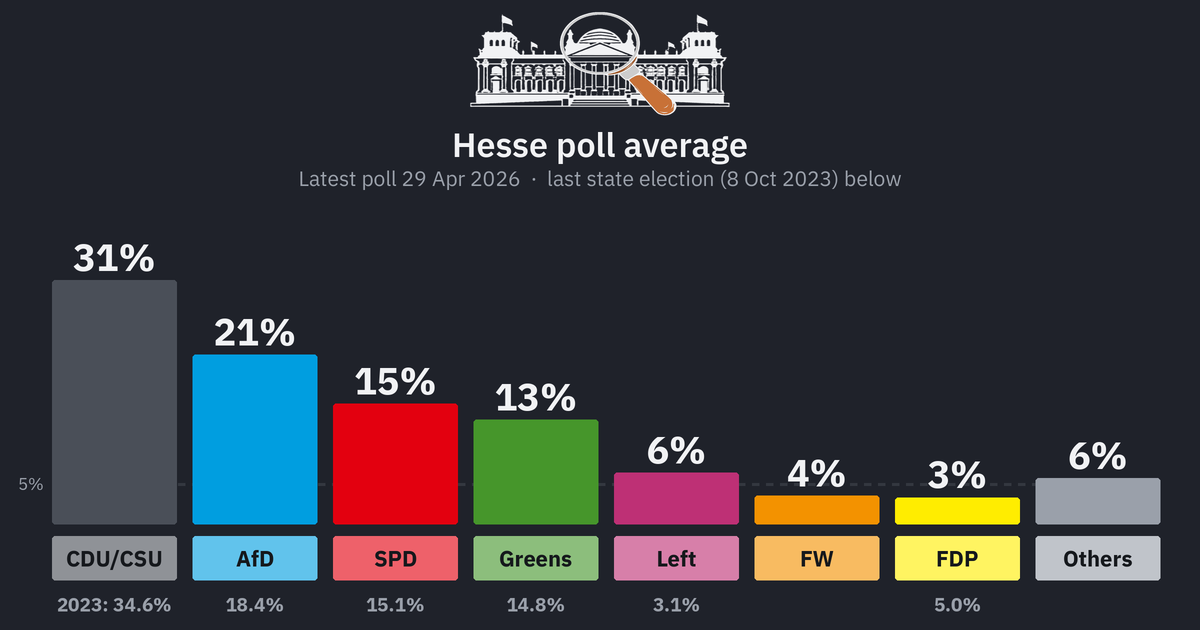
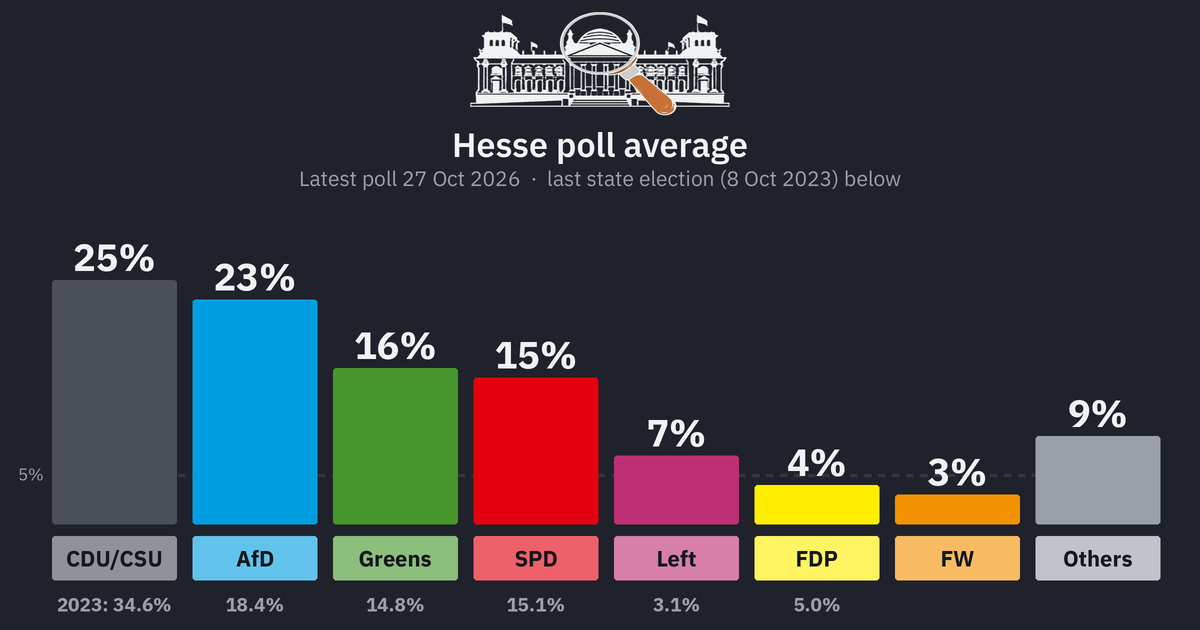
Update embed image

diff --git a/state/HE/index.html b/state/HE/index.html
@@ -15,8 +15,8 @@
 <meta property="og:title" content="KanzlerCheck: Hesse state polls">
 <meta property="og:description" content="German federal election polling average, Bundestag seat projection and government approval. Source: dawum.de">
 <meta property="og:url" content="https://kanzlercheck.github.io/state/HE/">
-<meta property="og:image" content="https://kanzlercheck.github.io/img/og/state-HE.png?v=20260429">
-<meta property="og:image:secure_url" content="https://kanzlercheck.github.io/img/og/state-HE.png?v=20260429">
+<meta property="og:image" content="https://kanzlercheck.github.io/img/og/state-HE.png?v=20261027">
+<meta property="og:image:secure_url" content="https://kanzlercheck.github.io/img/og/state-HE.png?v=20261027">
 <meta property="og:image:type" content="image/png">
 <meta property="og:image:width" content="1200">
 <meta property="og:image:height" content="630">
@@ -24,7 +24,7 @@
 <meta name="twitter:card" content="summary_large_image">
 <meta name="twitter:title" content="KanzlerCheck: Hesse state polls">
 <meta name="twitter:description" content="German federal election polling average, Bundestag seat projection and government approval. Source: dawum.de">
-<meta name="twitter:image" content="https://kanzlercheck.github.io/img/og/state-HE.png?v=20260429">
+<meta name="twitter:image" content="https://kanzlercheck.github.io/img/og/state-HE.png?v=20261027">
 <link rel="canonical" href="https://kanzlercheck.github.io/state/HE/">
 <link rel="stylesheet" href="/css/style.css?v=ba7e1c382">
 <script>/* new deploy? the page itself may come from the browser cache (GitHub Pages: 10 min) - compare with /version.json and reload once, like Ctrl+R */(function(){var l=document.querySelector('link[href*="/css/style.css"]'),cur=l?(l.getAttribute("href").split("?v=")[1]||""):"";if(!cur)return;fetch("/version.json",{cache:"no-store"}).then(function(r){return r.ok?r.json():null}).then(function(j){if(!j||!j.v||j.v===cur)return;var k="kc-build";try{if(sessionStorage.getItem(k)===j.v)return;sessionStorage.setItem(k,j.v)}catch(e){return}location.reload()}).catch(function(){})})()</script>
